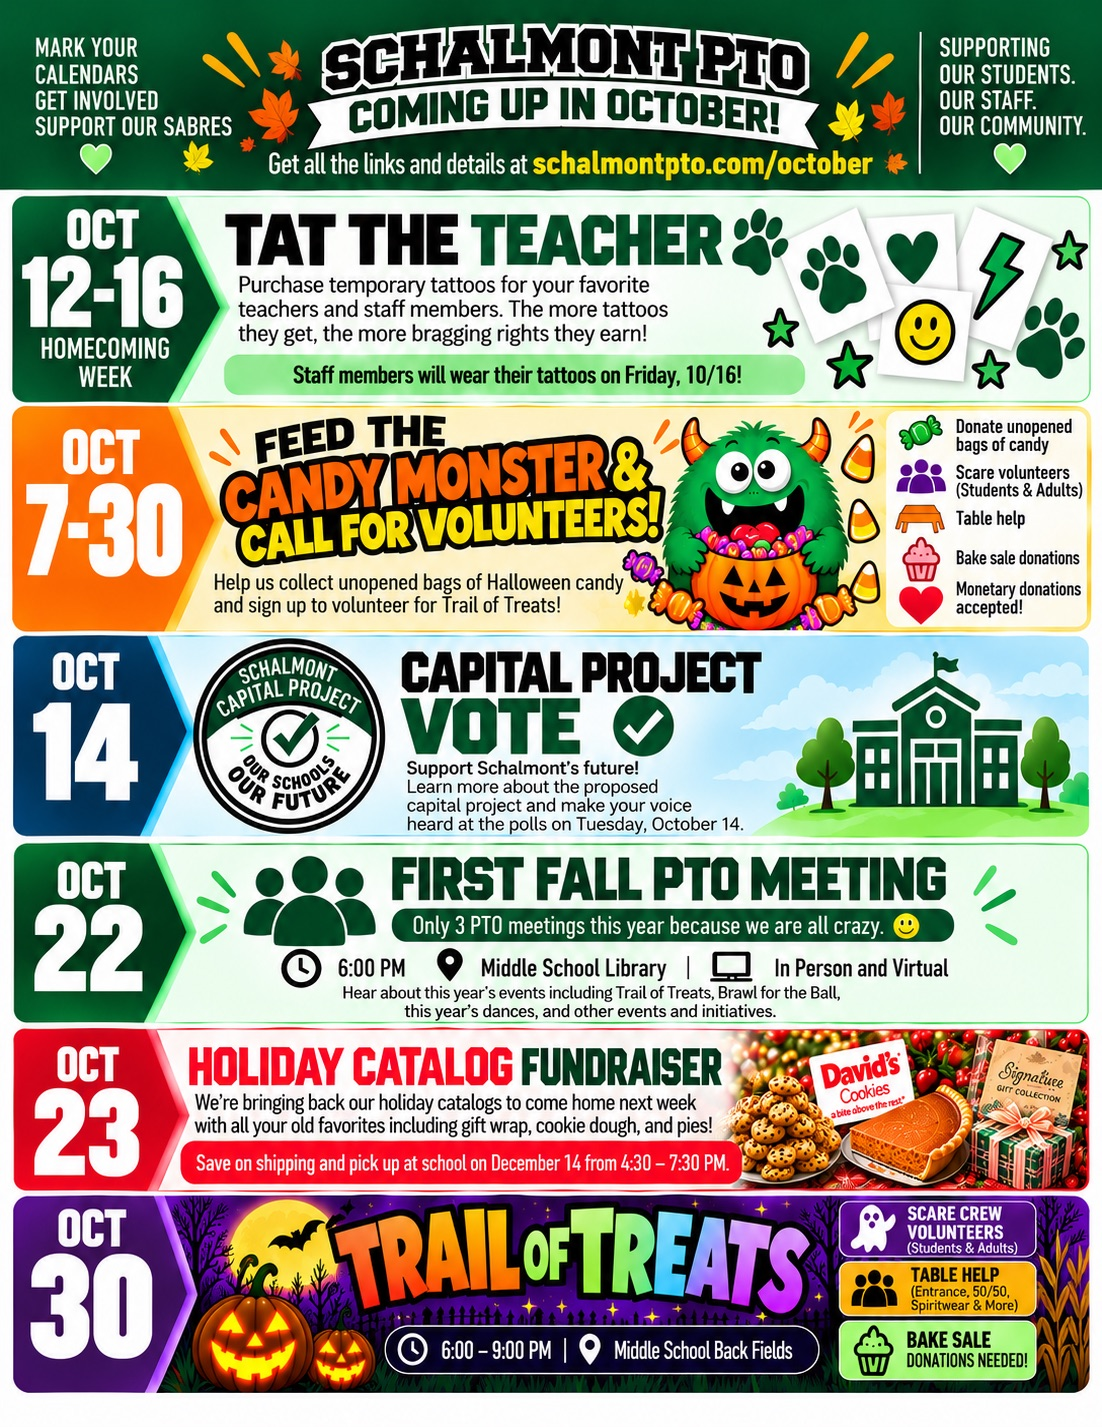
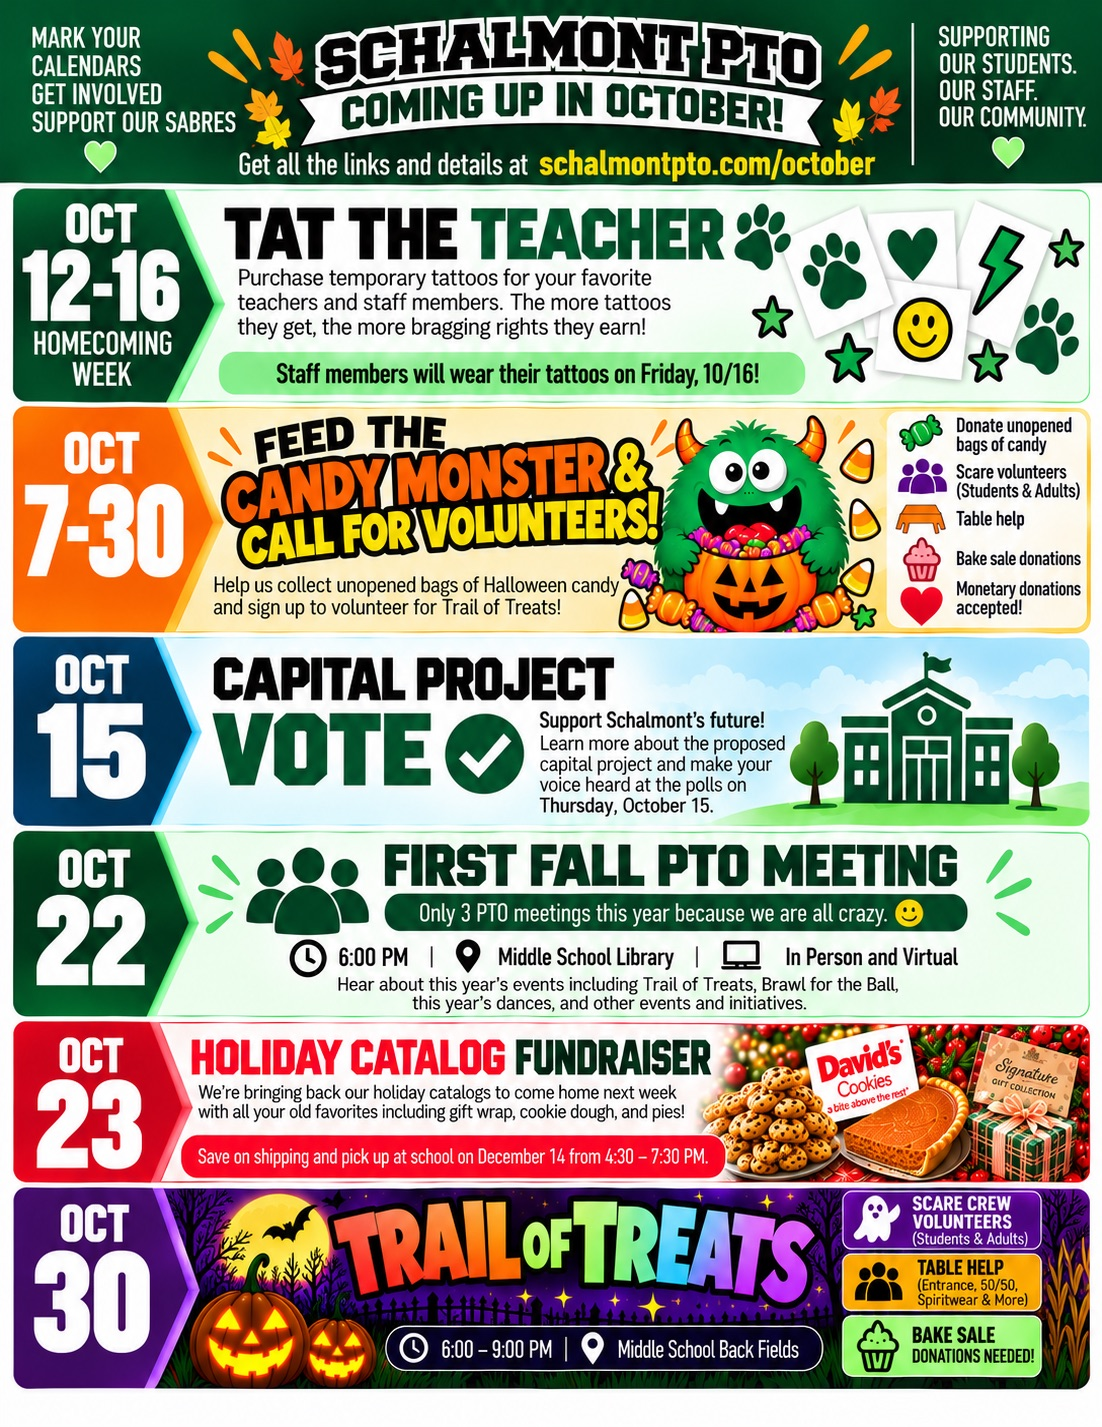
Add /holiday catalog page-turner; October page: new flyer (vote Oct 15), Details tags, catalog links to /holiday

diff --git a/holiday.html b/holiday.html
@@ -1,0 +1,240 @@
+<!DOCTYPE html>
+<html lang="en">
+<head>
+  <meta charset="UTF-8">
+  <meta name="viewport" content="width=device-width, initial-scale=1.0">
+  <meta property="og:title" content="Holiday Catalog Fundraiser — Schalmont Central PTO">
+  <meta property="og:description" content="Browse the holiday catalogs: gifts, chocolates, cookie dough, pies, popcorn, LEGO and more. Sale runs Oct. 23 – Nov. 13, 2026.">
+  <meta property="og:image" content="https://schalmontpto.com/images/holiday/signature-01.jpg">
+  <meta property="og:url" content="https://schalmontpto.com/holiday">
+  <meta property="og:type" content="website">
+  <meta name="twitter:card" content="summary_large_image">
+  <meta name="twitter:image" content="https://schalmontpto.com/images/holiday/signature-01.jpg">
+  <meta name="description" content="Schalmont Central PTO Holiday Catalog Fundraiser, Oct. 23 – Nov. 13, 2026. Flip through every catalog online.">
+  <title>Holiday Catalog Fundraiser — Schalmont PTO</title>
+  <link rel="stylesheet" href="/css/styles.css?v=6">
+  <link rel="icon" href="/images/favicon.svg">
+  <style>
+    .hc-wrap { max-width: 1100px; margin: 0 auto; }
+    .hc-facts { display: grid; grid-template-columns: repeat(auto-fit, minmax(220px, 1fr)); gap: 12px; margin: 0 0 26px; }
+    .hc-fact { background: #fff; border: 1px solid var(--border); border-radius: 14px; padding: 14px 16px; }
+    .hc-fact b { display: block; font-size: 12px; text-transform: uppercase; letter-spacing: .08em; color: var(--primary-light); margin-bottom: 4px; }
+    .hc-fact span { font-size: 17px; font-weight: 800; color: var(--primary-dark); line-height: 1.3; }
+    .hc-fact small { display: block; color: var(--text-light); font-size: 13.5px; margin-top: 3px; }
+
+    /* Catalog picker */
+    .hc-picker { display: flex; gap: 10px; overflow-x: auto; padding: 4px 2px 12px; scroll-snap-type: x proximity; }
+    .hc-pick { flex: 0 0 auto; width: 128px; scroll-snap-align: start; border: 2px solid transparent; background: #fff; border-radius: 12px; padding: 6px; text-align: center; box-shadow: var(--shadow-sm); font-family: inherit; }
+    .hc-pick img { width: 100%; height: 150px; object-fit: cover; object-position: top; border-radius: 8px; display: block; background: #eef2ee; }
+    .hc-pick span { display: block; font-size: 12.5px; font-weight: 800; color: var(--text); margin-top: 6px; line-height: 1.25; }
+    .hc-pick:hover { border-color: var(--primary-light); }
+    .hc-pick[aria-pressed="true"] { border-color: var(--primary); background: #eef7ea; }
+    .hc-pick:focus-visible { outline: 3px solid var(--primary); outline-offset: 2px; }
+
+    /* Page turner */
+    .hc-viewer { background: linear-gradient(135deg, #1a3d24, #295c38); border-radius: 18px; padding: 16px; margin-top: 6px; }
+    .hc-title { display: flex; justify-content: space-between; align-items: center; gap: 10px; flex-wrap: wrap; color: #fff; margin: 0 4px 12px; }
+    .hc-title h2 { color: #fff; font-size: 20px; margin: 0; }
+    .hc-count { font-weight: 800; color: #a5e54a; font-size: 14px; }
+    .hc-stage { position: relative; perspective: 2200px; display: flex; align-items: center; justify-content: center; min-height: 240px; }
+    .hc-page { position: relative; margin: 0 auto; background: #fff; border-radius: 6px; box-shadow: 0 14px 40px rgba(0,0,0,.4); overflow: hidden; transform-origin: center; }
+    .hc-page img { display: block; width: 100%; height: 100%; object-fit: contain; }
+    .hc-page.turn-next { animation: hcNext .45s ease; }
+    .hc-page.turn-prev { animation: hcPrev .45s ease; }
+    @keyframes hcNext { 0% { transform: rotateY(28deg) translateX(40px); opacity: .25; transform-origin: left center; } 100% { transform: none; opacity: 1; } }
+    @keyframes hcPrev { 0% { transform: rotateY(-28deg) translateX(-40px); opacity: .25; transform-origin: right center; } 100% { transform: none; opacity: 1; } }
+    .hc-arrow { position: absolute; top: 50%; transform: translateY(-50%); z-index: 2; width: 48px; height: 48px; border-radius: 50%; border: 0; background: rgba(255,255,255,.95); color: var(--primary-dark); font-size: 26px; line-height: 1; box-shadow: 0 4px 14px rgba(0,0,0,.3); display: grid; place-items: center; }
+    .hc-arrow:hover:not(:disabled) { background: #a5e54a; }
+    .hc-arrow:disabled { opacity: .35; cursor: default; }
+    .hc-arrow:focus-visible { outline: 3px solid #a5e54a; outline-offset: 2px; }
+    .hc-prev { left: 4px; } .hc-next { right: 4px; }
+    .hc-tools { display: flex; justify-content: center; gap: 8px; flex-wrap: wrap; margin-top: 14px; }
+    .hc-tools a, .hc-tools button { font-family: inherit; font-size: 13.5px; font-weight: 700; color: #fff; background: rgba(255,255,255,.12); border: 1px solid rgba(255,255,255,.35); border-radius: 999px; padding: 7px 14px; text-decoration: none; }
+    .hc-tools a:hover, .hc-tools button:hover { background: #a5e54a; color: #1a3d24; border-color: #a5e54a; }
+    .hc-thumbs { display: flex; gap: 6px; overflow-x: auto; margin-top: 12px; padding-bottom: 4px; }
+    .hc-thumb { flex: 0 0 auto; height: 64px; border: 2px solid transparent; border-radius: 4px; padding: 0; background: #fff; opacity: .7; }
+    .hc-thumb img { height: 100%; width: auto; display: block; border-radius: 2px; }
+    .hc-thumb[aria-current="true"] { border-color: #a5e54a; opacity: 1; }
+    .hc-thumb:hover { opacity: 1; }
+    .hc-hint { text-align: center; color: rgba(255,255,255,.75); font-size: 13px; margin-top: 8px; }
+
+    .hc-how { display: grid; grid-template-columns: 1fr 1fr; gap: 16px; margin-top: 28px; }
+    .hc-card { background: #fff; border: 1px solid var(--border); border-radius: 16px; padding: 20px 22px; }
+    .hc-card h3 { margin: 0 0 10px; font-size: 18px; color: var(--primary-dark); }
+    .hc-card ol, .hc-card ul { margin: 0; padding-left: 20px; list-style: revert; }
+    .hc-card li { margin: 6px 0; line-height: 1.5; }
+    .hc-flyers { display: flex; gap: 10px; flex-wrap: wrap; margin-top: 12px; }
+    @media (max-width: 760px) {
+      .hc-how { grid-template-columns: 1fr; }
+      .hc-viewer { padding: 10px; border-radius: 14px; }
+      .hc-arrow { width: 40px; height: 40px; font-size: 22px; }
+      .hc-thumbs { display: none; }
+    }
+    @media (prefers-reduced-motion: reduce) { .hc-page.turn-next, .hc-page.turn-prev { animation: none; } }
+  </style>
+</head>
+<body>
+
+  <div id="sc-header"></div>
+
+  <div class="homepage-layout">
+    <div id="sc-sidenav"></div>
+    <div class="homepage-main">
+
+      <section class="page-hero" style="background:linear-gradient(135deg,#045c28 0%,#087d40 100%)">
+        <div class="container">
+          <h1 style="margin:0">Holiday Catalog Fundraiser</h1>
+          <p style="margin:10px 0 0">Support the Schalmont Central PTO! Every purchase helps bring events and programs to students and teachers across the district.</p>
+        </div>
+      </section>
+
+      <section class="section">
+        <div class="container hc-wrap">
+
+          <div class="hc-facts">
+            <div class="hc-fact"><b>Sale dates</b><span>Oct. 23 – Nov. 13, 2026</span><small>Order forms due Nov. 13</small></div>
+            <div class="hc-fact"><b>Pickup</b><span>Mon., Dec. 14, 2026</span><small>4:30 – 7:30 PM, High School Cafeteria</small></div>
+            <div class="hc-fact"><b>Order online</b><span><a href="https://www.profit-raisers.com" target="_blank" rel="noopener">profit-raisers.com ↗</a></span><small>Or the free MyFundR app</small></div>
+          </div>
+
+          <h2 style="font-size:22px;color:var(--primary-dark);margin:0 0 10px">Browse the catalogs</h2>
+          <div class="hc-picker" id="hc-picker" role="group" aria-label="Choose a catalog"></div>
+
+          <div class="hc-viewer" id="hc-viewer">
+            <div class="hc-title">
+              <h2 id="hc-name">Catalog</h2>
+              <span class="hc-count" id="hc-count" aria-live="polite"></span>
+            </div>
+            <div class="hc-stage" id="hc-stage">
+              <button type="button" class="hc-arrow hc-prev" id="hc-prev" aria-label="Previous page">&#8249;</button>
+              <div class="hc-page" id="hc-page"><img id="hc-img" alt=""></div>
+              <button type="button" class="hc-arrow hc-next" id="hc-next" aria-label="Next page">&#8250;</button>
+            </div>
+            <p class="hc-hint">Use the arrows, swipe, or your keyboard's ← → keys to turn pages.</p>
+            <div class="hc-thumbs" id="hc-thumbs" aria-label="Jump to a page"></div>
+            <div class="hc-tools">
+              <a id="hc-open" href="#" target="_blank" rel="noopener">🔍 Open this page full size</a>
+            </div>
+          </div>
+
+          <div class="hc-how">
+            <div class="hc-card">
+              <h3>How you can help</h3>
+              <ul>
+                <li>Show the catalogs to family and friends, and ask parents to take them to work.</li>
+                <li><b>Register online</b> at <a href="https://www.profit-raisers.com" target="_blank" rel="noopener">profit-raisers.com</a> or in the free <b>MyFundR</b> app, so you can send your fundraising link by email, text and social media.</li>
+                <li>Online orders count toward student prizes. They ship to our group and are delivered with your paper order, unless the customer picks a ship-to-home item.</li>
+              </ul>
+            </div>
+            <div class="hc-card">
+              <h3>Paper order forms — remember to:</h3>
+              <ol>
+                <li>Make checks or money orders payable to <b>Schalmont MS PTO</b>.</li>
+                <li><b>Do not collect tax.</b></li>
+                <li>Fill in the top of the order form with your address, email and phone number.</li>
+                <li>Print brochure item codes clearly.</li>
+                <li>Return <b>both parts</b> of the order form by <b>November 13, 2026</b>.</li>
+              </ol>
+              <div class="hc-flyers">
+                <a class="btn btn-primary" style="font-size:13.5px;padding:8px 16px" href="/images/holiday/fall-fundraiser-flyer-2026.jpg" target="_blank" rel="noopener">📄 Fundraiser flyer</a>
+                <a class="btn" style="font-size:13.5px;padding:8px 16px;border:2px solid var(--primary);color:var(--primary);background:#fff" href="/images/holiday/myfundr-app-guide.jpg" target="_blank" rel="noopener">📱 MyFundR app guide</a>
+              </div>
+            </div>
+          </div>
+
+          <p style="text-align:center;margin-top:24px"><a href="/october">← Back to October events</a> &nbsp;·&nbsp; <a href="/fundraisers">All fundraisers</a></p>
+        </div>
+      </section>
+
+    </div>
+  </div>
+
+  <div id="sc-footer"></div>
+
+  <script src="/js/site-chrome.js?v=2"></script>
+  <script>renderSiteChrome();</script>
+  <script>
+  (function () {
+    // Each catalog's pages are images/holiday/<key>-NN.jpg (rendered from the vendor PDFs).
+    // [width, height] per page so the viewer can reserve the right shape (no jumping).
+    var CATALOGS = [
+      { key: 'signature', name: 'Signature Gift Collection', pages: [[1155,1500]].concat(Array(11).fill([1500,974])).concat([[1155,1500]]) },
+      { key: 'cookies',   name: "David's Cookie Dough",      pages: [[1500,971],[1500,971]] },
+      { key: 'pies',      name: 'Pies',                      pages: [[1159,1500],[1500,1159],[1159,1500]] },
+      { key: 'popcorn',   name: '1812 Popcorn',              pages: Array(4).fill([1159,1500]) },
+      { key: 'party',     name: 'Party Time Favorites',      pages: Array(8).fill([1159,1500]) },
+      { key: 'lego',      name: 'LEGO',                      pages: Array(4).fill([1176,1500]) },
+      { key: 'chicobag',  name: 'ChicoBag',                  pages: Array(8).fill([1159,1500]) }
+    ];
+    var picker = document.getElementById('hc-picker'), stage = document.getElementById('hc-stage');
+    var pageEl = document.getElementById('hc-page'), img = document.getElementById('hc-img');
+    var prev = document.getElementById('hc-prev'), next = document.getElementById('hc-next');
+    var thumbs = document.getElementById('hc-thumbs'), count = document.getElementById('hc-count');
+    var cat = CATALOGS[0], idx = 0;
+    function src(c, i) { return '/images/holiday/' + c.key + '-' + String(i + 1).padStart(2, '0') + '.jpg'; }
+
+    picker.innerHTML = CATALOGS.map(function (c, i) {
+      return '<button type="button" class="hc-pick" data-i="' + i + '" aria-pressed="' + (i === 0) + '">' +
+        '<img src="/images/holiday/covers/' + c.key + '.jpg" alt="" loading="lazy" width="116" height="150"><span>' + c.name + '</span></button>';
+    }).join('');
+
+    // Fit the page into the stage: as wide as allowed, but never taller than the window.
+    function size() {
+      var p = cat.pages[idx], avail = stage.clientWidth - (window.innerWidth < 760 ? 0 : 120);
+      var maxH = Math.max(320, window.innerHeight - 190);
+      var w = Math.min(avail, p[0], maxH * p[0] / p[1]);
+      pageEl.style.width = Math.round(w) + 'px';
+      pageEl.style.height = Math.round(w * p[1] / p[0]) + 'px';
+    }
+    function show(i, dir) {
+      idx = Math.max(0, Math.min(cat.pages.length - 1, i));
+      size();
+      img.src = src(cat, idx);
+      img.alt = cat.name + ', page ' + (idx + 1) + ' of ' + cat.pages.length;
+      document.getElementById('hc-open').href = src(cat, idx);
+      count.textContent = 'Page ' + (idx + 1) + ' of ' + cat.pages.length;
+      prev.disabled = idx === 0; next.disabled = idx === cat.pages.length - 1;
+      [].forEach.call(thumbs.children, function (t, k) { if (k === idx) t.setAttribute('aria-current', 'true'); else t.removeAttribute('aria-current'); });
+      if (dir) { pageEl.classList.remove('turn-next', 'turn-prev'); void pageEl.offsetWidth; pageEl.classList.add(dir > 0 ? 'turn-next' : 'turn-prev'); }
+      // Load the next page ahead of time so turning feels instant.
+      if (idx + 1 < cat.pages.length) { var pre = new Image(); pre.src = src(cat, idx + 1); }
+    }
+    function openCatalog(i, scroll) {
+      cat = CATALOGS[i];
+      document.getElementById('hc-name').textContent = cat.name;
+      [].forEach.call(picker.children, function (b, k) { b.setAttribute('aria-pressed', String(k === i)); });
+      thumbs.innerHTML = cat.pages.map(function (_, k) {
+        return '<button type="button" class="hc-thumb" data-p="' + k + '" aria-label="Page ' + (k + 1) + '"><img src="' + src(cat, k) + '" alt="" loading="lazy"></button>';
+      }).join('');
+      show(0);
+      try { history.replaceState(null, '', '#' + cat.key); } catch (_) {}
+      if (scroll) document.getElementById('hc-viewer').scrollIntoView({ behavior: 'smooth', block: 'start' });
+    }
+    picker.addEventListener('click', function (e) { var b = e.target.closest('.hc-pick'); if (b) openCatalog(+b.dataset.i, true); });
+    thumbs.addEventListener('click', function (e) { var b = e.target.closest('.hc-thumb'); if (b) show(+b.dataset.p, +b.dataset.p > idx ? 1 : -1); });
+    prev.onclick = function () { if (idx > 0) show(idx - 1, -1); };
+    next.onclick = function () { if (idx < cat.pages.length - 1) show(idx + 1, 1); };
+    document.addEventListener('keydown', function (e) {
+      if (/INPUT|TEXTAREA|SELECT/.test(e.target.tagName)) return;
+      if (e.key === 'ArrowRight') next.onclick();
+      if (e.key === 'ArrowLeft') prev.onclick();
+    });
+    var x0 = null;
+    stage.addEventListener('touchstart', function (e) { x0 = e.touches[0].clientX; }, { passive: true });
+    stage.addEventListener('touchend', function (e) {
+      if (x0 === null) return;
+      var dx = e.changedTouches[0].clientX - x0; x0 = null;
+      if (dx < -40) next.onclick(); else if (dx > 40) prev.onclick();
+    });
+    // Tap the right or left half of the page to turn it.
+    pageEl.addEventListener('click', function (e) {
+      var r = pageEl.getBoundingClientRect();
+      if (e.clientX - r.left > r.width / 2) next.onclick(); else prev.onclick();
+    });
+    window.addEventListener('resize', size);
+    var start = CATALOGS.map(function (c) { return c.key; }).indexOf(location.hash.slice(1));
+    openCatalog(start < 0 ? 0 : start, false);
+  })();
+  </script>
+</body>
+</html>

diff --git a/october.html b/october.html
@@ -5,11 +5,11 @@
   <meta name="viewport" content="width=device-width, initial-scale=1.0">
   <meta property="og:title" content="Schalmont PTO — Coming Up in October">
   <meta property="og:description" content="Tat the Teacher, the Candy Monster, the Capital Project vote, our first fall PTO meeting, the Holiday Catalog fundraiser and Trail of Treats.">
-  <meta property="og:image" content="https://schalmontpto.com/images/flyers/october-2026.jpg">
+  <meta property="og:image" content="https://schalmontpto.com/images/flyers/october-2026.jpg?v=2">
   <meta property="og:url" content="https://schalmontpto.com/october">
   <meta property="og:type" content="website">
   <meta name="twitter:card" content="summary_large_image">
-  <meta name="twitter:image" content="https://schalmontpto.com/images/flyers/october-2026.jpg">
+  <meta name="twitter:image" content="https://schalmontpto.com/images/flyers/october-2026.jpg?v=2">
   <meta name="description" content="Everything the Schalmont PTO has coming up in October 2026, with links to each event.">
   <title>Coming Up in October — Schalmont PTO</title>
   <link rel="stylesheet" href="/css/styles.css?v=6">
@@ -26,6 +26,13 @@
     }
     .month-flyer a:hover { background: rgba(255,255,255,.12); box-shadow: inset 0 0 0 4px #a5e54a; }
     .month-flyer a:focus-visible { outline: none; box-shadow: inset 0 0 0 5px #1a3d24; background: rgba(165,229,74,.18); }
+    /* A visible "Details →" tag on every event band so it's obvious they're tappable. */
+    .mf-tag {
+      position: absolute; right: 2.2%; bottom: 12%; font-size: clamp(10px, 1.5vw, 13px); font-weight: 800;
+      color: #1a3d24; background: #a5e54a; border-radius: 999px; padding: .35em .85em; line-height: 1;
+      box-shadow: 0 2px 8px rgba(0,0,0,.25); transition: transform .15s ease;
+    }
+    .month-flyer a:hover .mf-tag, .month-flyer a:focus-visible .mf-tag { transform: scale(1.08); background: #fff; }
     .month-flyer-hint { text-align: center; color: var(--text-light); font-size: 14px; margin: 0 0 14px; }
     .month-links { margin: 28px auto 0; max-width: 820px; display: grid; grid-template-columns: repeat(auto-fit, minmax(240px, 1fr)); gap: 10px; }
     .month-links a {
@@ -55,30 +62,30 @@
       <section class="section">
         <div class="container">
           <div class="month-flyer-wrap">
-            <p class="month-flyer-hint">Tap any event on the flyer for details and sign-ups.</p>
+            <p class="month-flyer-hint">👆 Tap any event box on the flyer (look for the green <b>Details</b> tags) for info and sign-ups.</p>
             <div class="month-flyer">
-              <img src="/images/flyers/october-2026.jpg" width="1102" height="1427"
-                   alt="Schalmont PTO — Coming up in October: Tat the Teacher, Oct 12–16; Feed the Candy Monster and call for volunteers, Oct 7–30; Capital Project vote, Oct 14; First Fall PTO Meeting, Oct 22 at 6 PM in the Middle School Library; Holiday Catalog fundraiser, Oct 23; Trail of Treats, Oct 30, 6–9 PM on the Middle School back fields.">
-              <a href="/pto/tattheteacher" style="top:13.74%;height:14.44%" aria-label="Tat the Teacher, October 12 to 16"></a>
-              <a href="/trail-of-treats-volunteers" style="top:28.52%;height:15.63%" aria-label="Feed the Candy Monster and volunteer for Trail of Treats, October 7 to 30"></a>
-              <a href="https://www.schalmont.org/capital-project/" target="_blank" rel="noopener" style="top:44.57%;height:14.02%" aria-label="Capital Project vote, October 14 (opens the district's capital project information)"></a>
-              <a href="/pto/fall-pto-meeting" style="top:59.01%;height:12.68%" aria-label="First Fall PTO Meeting, October 22 at 6 PM"></a>
-              <a href="/fundraisers" style="top:72.11%;height:11.28%" aria-label="Holiday Catalog fundraiser, October 23"></a>
-              <a href="/trailoftreats" style="top:83.81%;height:13.95%" aria-label="Trail of Treats, October 30, 6 to 9 PM"></a>
+              <img src="/images/flyers/october-2026.jpg?v=2" width="1102" height="1427"
+                   alt="Schalmont PTO — Coming up in October: Tat the Teacher, Oct 12–16; Feed the Candy Monster and call for volunteers, Oct 7–30; Capital Project vote, Thursday Oct 15; First Fall PTO Meeting, Oct 22 at 6 PM in the Middle School Library; Holiday Catalog fundraiser, Oct 23; Trail of Treats, Oct 30, 6–9 PM on the Middle School back fields.">
+              <a href="/pto/tattheteacher" style="top:13.74%;height:14.44%" aria-label="Tat the Teacher, October 12 to 16"><span class="mf-tag" aria-hidden="true">Details →</span></a>
+              <a href="/trail-of-treats-volunteers" style="top:28.52%;height:15.63%" aria-label="Feed the Candy Monster and volunteer for Trail of Treats, October 7 to 30"><span class="mf-tag" style="bottom:3%;right:16%" aria-hidden="true">Details →</span></a>
+              <a href="https://www.schalmont.org/capital-project/" target="_blank" rel="noopener" style="top:44.57%;height:14.02%" aria-label="Capital Project vote, Thursday October 15 (opens the district's capital project information)"><span class="mf-tag" aria-hidden="true">Info ↗</span></a>
+              <a href="/pto/fall-pto-meeting" style="top:59.01%;height:12.68%" aria-label="First Fall PTO Meeting, October 22 at 6 PM"><span class="mf-tag" aria-hidden="true">Details →</span></a>
+              <a href="/holiday" style="top:72.11%;height:11.28%" aria-label="Holiday Catalog fundraiser, October 23"><span class="mf-tag" aria-hidden="true">Details →</span></a>
+              <a href="/trailoftreats" style="top:83.81%;height:13.95%" aria-label="Trail of Treats, October 30, 6 to 9 PM"><span class="mf-tag" aria-hidden="true">Details →</span></a>
             </div>
           </div>
 
           <nav class="month-links" aria-label="October events">
             <a href="/pto/tattheteacher"><span class="d">Oct 12–16</span>Tat the Teacher</a>
             <a href="/trail-of-treats-volunteers"><span class="d">Oct 7–30</span>Feed the Candy Monster &amp; Volunteer</a>
-            <a href="https://www.schalmont.org/capital-project/" target="_blank" rel="noopener"><span class="d">Oct 14</span>Capital Project Vote ↗</a>
+            <a href="https://www.schalmont.org/capital-project/" target="_blank" rel="noopener"><span class="d">Thu Oct 15</span>Capital Project Vote ↗</a>
             <a href="/pto/fall-pto-meeting"><span class="d">Oct 22</span>First Fall PTO Meeting</a>
-            <a href="/fundraisers"><span class="d">Oct 23</span>Holiday Catalog Fundraiser</a>
+            <a href="/holiday"><span class="d">Oct 23</span>Holiday Catalog Fundraiser</a>
             <a href="/trailoftreats"><span class="d">Oct 30</span>Trail of Treats</a>
           </nav>
 
           <div class="month-actions">
-            <a href="/images/flyers/october-2026.png" class="btn" style="border:2px solid var(--primary);color:var(--primary);background:#fff" download>⬇ Download the flyer</a>
+            <a href="/images/flyers/october-2026.png?v=2" class="btn" style="border:2px solid var(--primary);color:var(--primary);background:#fff" download>⬇ Download the flyer</a>
             <a href="/events" class="btn btn-primary">📅 Full calendar</a>
           </div>
         </div>
